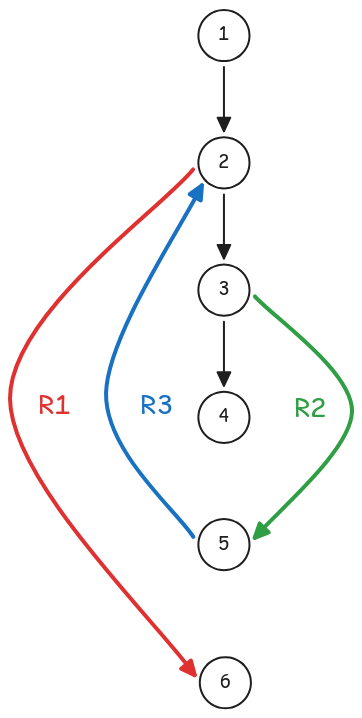
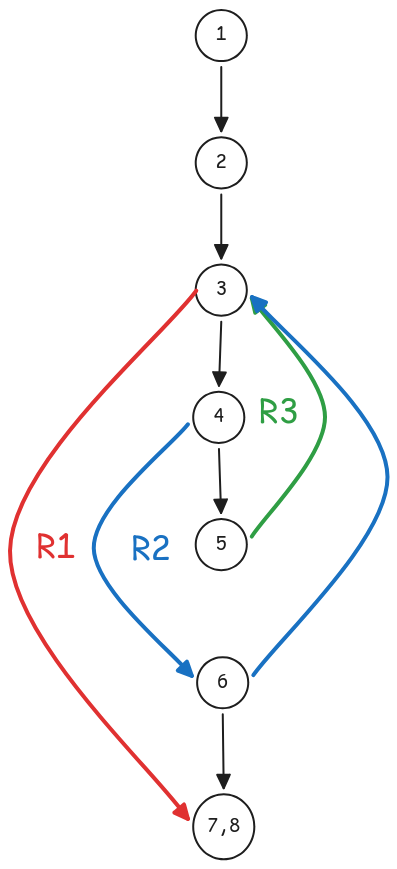
arreglada prueba caja blanca christian

diff --git a/DocSistema.tex b/DocSistema.tex
@@ -147,87 +147,101 @@ palabra clave al principio del nombre de la función que se incluye en la descri
 			Así pues, diseñaremos casos de prueba que cumplan dichas condiciones, y dichos casos deberán hacer que la función devuelva un puntero a la sala con la ID buscada.
 \end{itemize}
 
-\begin{itemize}
-	\item \textbf{Pruebas de ruta básica de la función "\texttt{inv\_find\_item\_by\_id}":}
-		\emph{(Christian Romero Oliva)}
+\subsubsection{Pruebas de ruta básica de la función "\texttt{inv\_find\_item\_by\_id}":}
 
-		En la figura~\ref{fig:cfg_inv} se muestra el grafo de flujo de control generado para esta función.
+\emph{(Christian Romero Oliva)}
+
+\bigskip
+A continuación se muestra el código de la función a probar seleccionada junto a la 
+figura~\ref{fig:cfg_inv}, donde se muestra el grafo de flujo de control 
+generado para esta función.
 		
-		\newpage
+\newpage
 
-		\begin{verbatim}
-		Item* inv_find_item_by_id(char wanted_id[5], Inventory *inv){
-			int i;  (1)
+\begin{verbatim}
+	Item* inv_find_item_by_id(char wanted_id[5], Inventory *inv){
+		int i; (1)
+		Item* found_item = NULL; (2)
 
-			for (i = 0; i < inv->size; i++) {  (2)
-				if (strcmp(inv->slot[i].id, wanted_id) == 0){ (3)
-					return &inv->slot[i];  (4)
-				} (5)
-					
+		for (i = 0; i < inv->size; i++) { (3)
+			if (strcmp(inv->slot[i].id, wanted_id) == 0){ (4)
+				found_item = &inv->slot[i]; (5)
 			} (6)
+		} (7)
 
-			return NULL;  (7)
-		}
-		\end{verbatim}
+		return found_item; (8)
+	}
+\end{verbatim}
 
-		\begin{figure}[h!]
-		\centering
-		\includegraphics[width=0.4\textwidth]{cfg_christian.png}
-		\caption{Grafo de flujo de control de la función \texttt{inv\_find\_item\_by\_id}.}
-		\label{fig:cfg_inv}
-		\end{figure}
+\begin{figure}[h!]
+\centering
+\includegraphics[width=0.4\textwidth]{cfg_christian.png}
+\caption{Grafo de flujo de control de la función \texttt{inv\_find\_item\_by\_id}.}
+\label{fig:cfg_inv}
+\end{figure} 
 
-		\pagebreak
+\pagebreak
 
-		\textbf{Complejidad ciclomática:}
+\textbf{Complejidad ciclomática:}
 
-		\begin{itemize}
-			\item $V(G) = NA - NN + 2 = 7 - 6 + 2 = \mathbf{3}$
-			\item $V(G) = NNP + 1 = 2 + 1 = \mathbf{3}$
-			\item $V(G) =$ número de regiones $= R1 + R2 + R3 = \mathbf{3}$
-		\end{itemize}
+\begin{itemize}
+	\item $V(G) = NA - NN + 2 = 8 - 7 + 2 = \mathbf{3}$
+	\item $V(G) = NNP + 1 = 2 + 1 = \mathbf{3}$
+	\item $V(G) =$ número de regiones $= R1 + R2 + R3 = \mathbf{3}$
+\end{itemize}
 
-		Donde 
-		\begin{itemize}
-			\item NA = número de aristas
-			\item NN = número de vértices
-			\item NNP = número de nodos predicado
-		\end{itemize}
-		(nodo~2: condición del \verb|for|; nodo~3: condición del \verb|if|).
+Donde 
 
-		\bigskip
+\begin{itemize}
+	\item NA = número de aristas
+	\item NN = número de vértices
+	\item NNP = número de nodos predicado
+\end{itemize}
 
-		\textbf{Rutas básicas linealmente independientes:} 
-		\begin{itemize}
-			\item \textbf{Ruta 1}: 1-2-6
-			\item \textbf{Ruta 2}: 1-2-3-5-2-6
-			\item \textbf{Ruta 3}: 1-2-3-4
-		\end{itemize}
+(nodo~3: condición del \verb|for|; nodo~4: condición del \verb|if|).
 
-		\bigskip
+\bigskip
 
-		\textbf{Casos de prueba:}
+\textbf{Rutas básicas linealmente independientes:} 
 
-		\item \textbf{Ruta 1 (1-2-6) (No entramos en el \texttt{for},):}
-			
-			Para que la condición del \verb|for| sea falsa desde el inicio, el campo \verb|size| del inventario debe ser 0.\\
-			Un caso de prueba sería pasar un \verb|Inventory| con \verb|size = 0| y cualquier \verb|wanted_id|.\\
-			El resultado esperado es que la función devuelva \verb|NULL|.
+\begin{itemize}
+	\item \textbf{Ruta 1}: 1-2-3-7-8
+	\item \textbf{Ruta 2}: 1-2-3-4-6-3-7-8
+	\item \textbf{Ruta 3}: 1-2-3-4-5-3-7-8
+\end{itemize}
 
-		\item \textbf{Ruta 2 (1-2-3-5-2-6) (Entramos en el \texttt{for} pero no en el \texttt{if}):}
+\bigskip
 
-			Para recorrer esta ruta el inventario debe tener al menos un elemento (\verb|size >= 1|), 
-			pero ninguno de sus items debe coincidir con el \verb|wanted_id| buscado.\\
-			Un caso de prueba sería un \verb|Inventory| con varios items cuyas IDs sean distintas a la buscada; 
-			la función iterará todos los slots sin hallar coincidencia.\\
-			El resultado esperado es que la función devuelva \verb|NULL|.
+\textbf{Casos de prueba:}
 
-		\item \textbf{Ruta 3 (1-2-3-4) (Entramos en el \texttt{for} y en el \texttt{if}):}
+\begin{itemize}
+	\item \textbf{Ruta 1 (1-2-3-7-8) (No entramos en el \texttt{for}):}
+		
+		Para que la condición del \verb|for| sea falsa desde el inicio, 
+		el campo \verb|size| del inventario debe ser 0.\\
+		Un caso de prueba sería pasar un \verb|Inventory| con \verb|size = 0| 
+		y cualquier \verb|wanted_id|.\\
+		El resultado esperado es que la función devuelva \verb|NULL|.
 
-			Para recorrer esta ruta el inventario debe contener al menos un item cuya ID coincida exactamente con \verb|wanted_id|.\\
-			Un caso de prueba sería un \verb|Inventory| en el que se sepa que existe un item con una ID concreta; 
-			Se llamará a \verb|inv_find_item_by_id| con esa ID y
-			el resultado esperado es que la función devuelva un puntero al \verb|Item| cuya ID coincide con la buscada.
+	\item \textbf{Ruta 2 (1-2-3-4-6-3-7-8) (Entramos en el \texttt{for} pero no en el \texttt{if}):}
+
+		Para recorrer esta ruta el inventario debe tener al menos un elemento 
+		(\verb|size >= 1|), 
+		pero ninguno de sus items debe coincidir con el \verb|wanted_id| buscado.\\
+		Un caso de prueba sería un \verb|Inventory| con varios items cuyas IDs 
+		sean distintas a la buscada; 
+		la función iterará todos los slots sin hallar coincidencia.\\
+		El resultado esperado es que la función devuelva \verb|NULL|.
+
+	\item \textbf{Ruta 3 (1-2-3-4-5-3-7-8) (Entramos en el \texttt{for} y en el \texttt{if}):}
+
+		Para recorrer esta ruta el inventario debe contener al menos un item 
+		cuya ID coincida exactamente con \verb|wanted_id|.\\
+		Un caso de prueba sería un \verb|Inventory| en el que se sepa que 
+		existe un item con una ID concreta; 
+		Se llamará a \verb|inv_find_item_by_id| con esa ID y
+		el resultado esperado es que la función devuelva un puntero al 
+		\verb|Item| cuya ID coincide con la buscada.
 \end{itemize}
 
 \subsubsection{Pruebas de caja negra de las funciones de cada módulo y de cada módulo como conjunto:}
